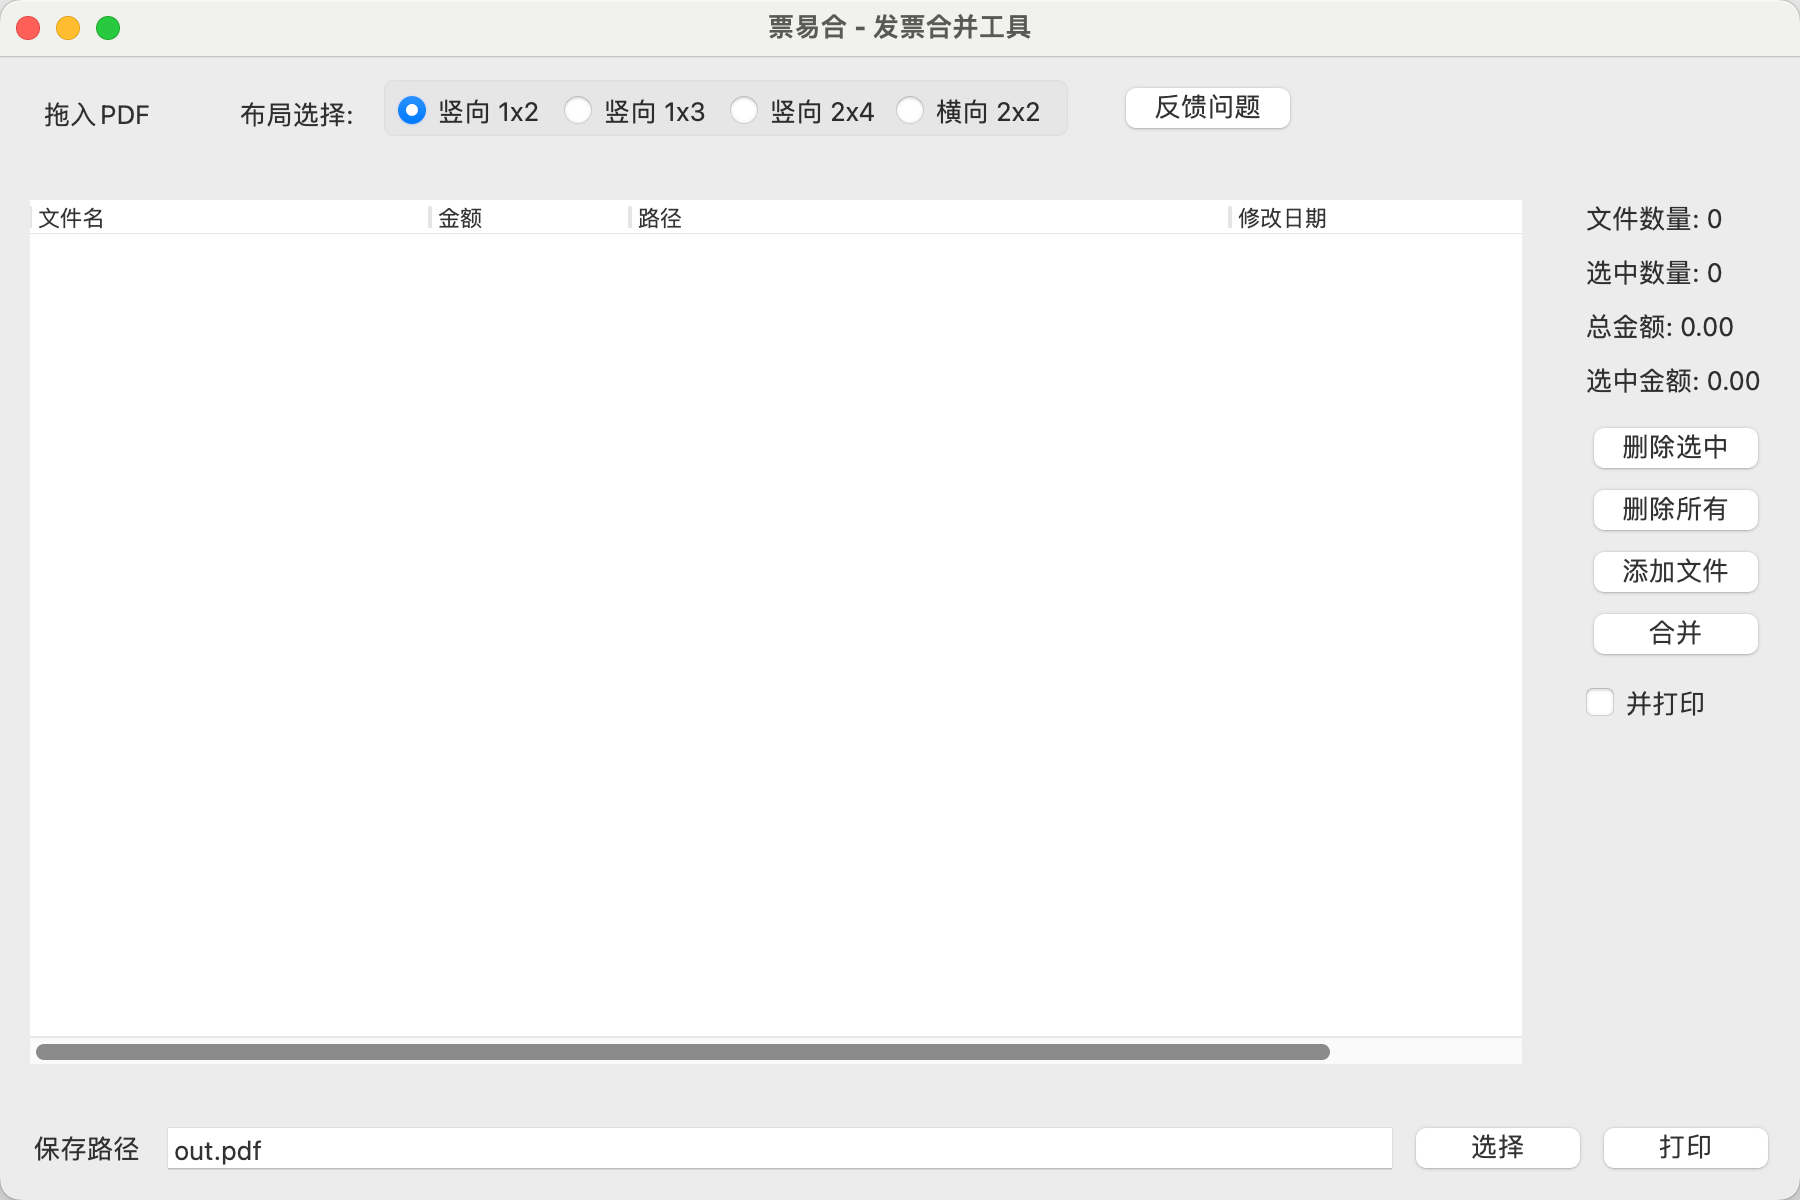
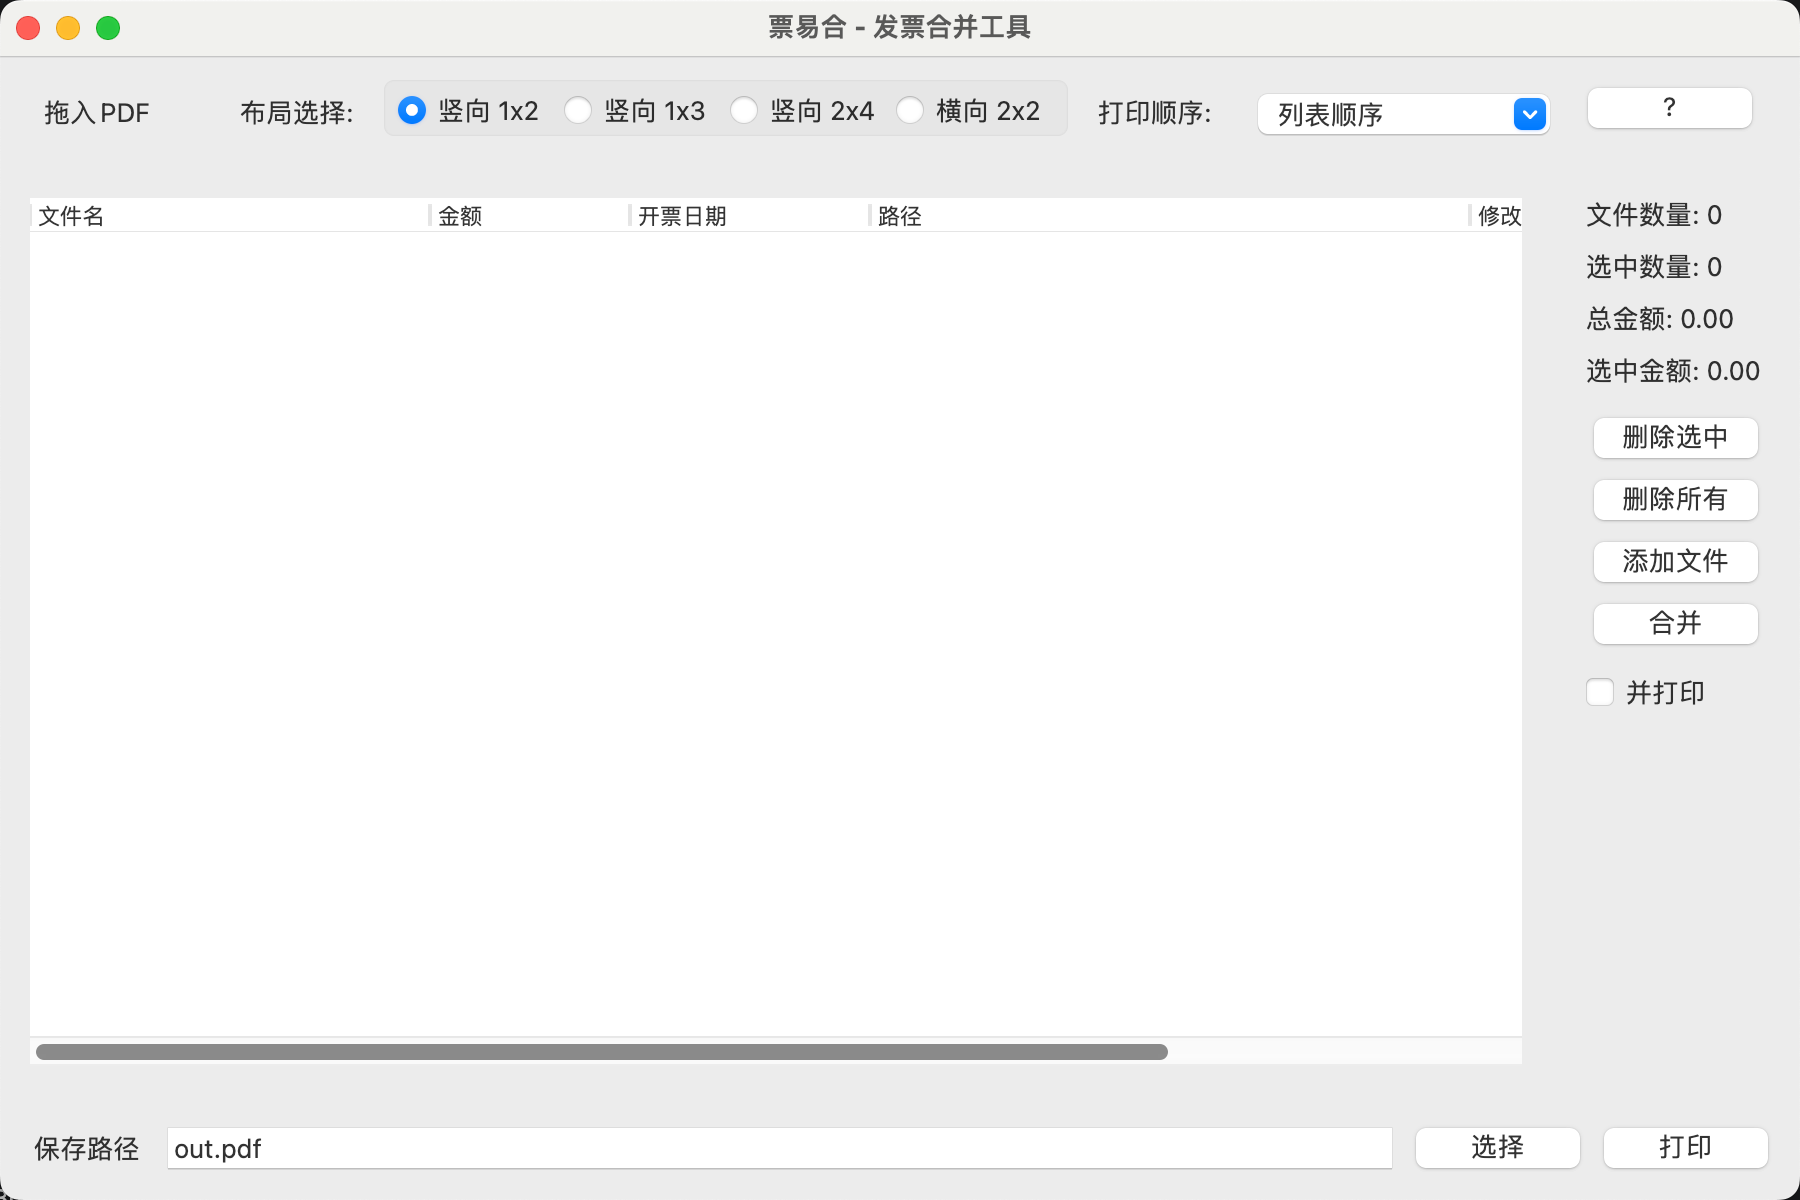
feat(打包): 添加二维码资源并支持PyInstaller路径处理
添加二维码图片资源到打包配置中
修改主窗口反馈按钮大小
增加对PyInstaller打包后资源路径的处理逻辑

diff --git a/code/ui/main_frame.py b/code/ui/main_frame.py
@@ -5,6 +5,7 @@
 
 import wx
 import os
+import sys
 from ui.file_list import FileListPanel
 from core.pdf_handler import PDFHandler
 
@@ -76,7 +77,7 @@ class MainFrame(wx.Frame):
         top_sizer.Add(self.order_combo, 0, wx.TOP, 18)
 
         # 添加反馈问题按钮
-        feedback_button = wx.Button(self.panel, label="?")
+        feedback_button = wx.Button(self.panel, label="?",size=(30,-1))
         feedback_button.Bind(wx.EVT_BUTTON, self.on_feedback)
         top_sizer.Add(feedback_button, 0, wx.ALL, 15)
 
@@ -313,7 +314,11 @@ class MainFrame(wx.Frame):
         dialog_sizer = wx.BoxSizer(wx.VERTICAL)
         
         # 添加二维码图片
-        qrcode_path = os.path.join(os.path.dirname(__file__), '../res/qrcode.jpg')
+        # 处理PyInstaller打包后的路径
+        if hasattr(sys, '_MEIPASS'):
+            qrcode_path = os.path.join(sys._MEIPASS, 'res', 'qrcode.jpg')
+        else:
+            qrcode_path = os.path.join(os.path.dirname(__file__), '../res/qrcode.jpg')
         if os.path.exists(qrcode_path):
             qrcode_img = wx.Image(qrcode_path, wx.BITMAP_TYPE_JPEG)
             qrcode_img = qrcode_img.Rescale(200, 200)
